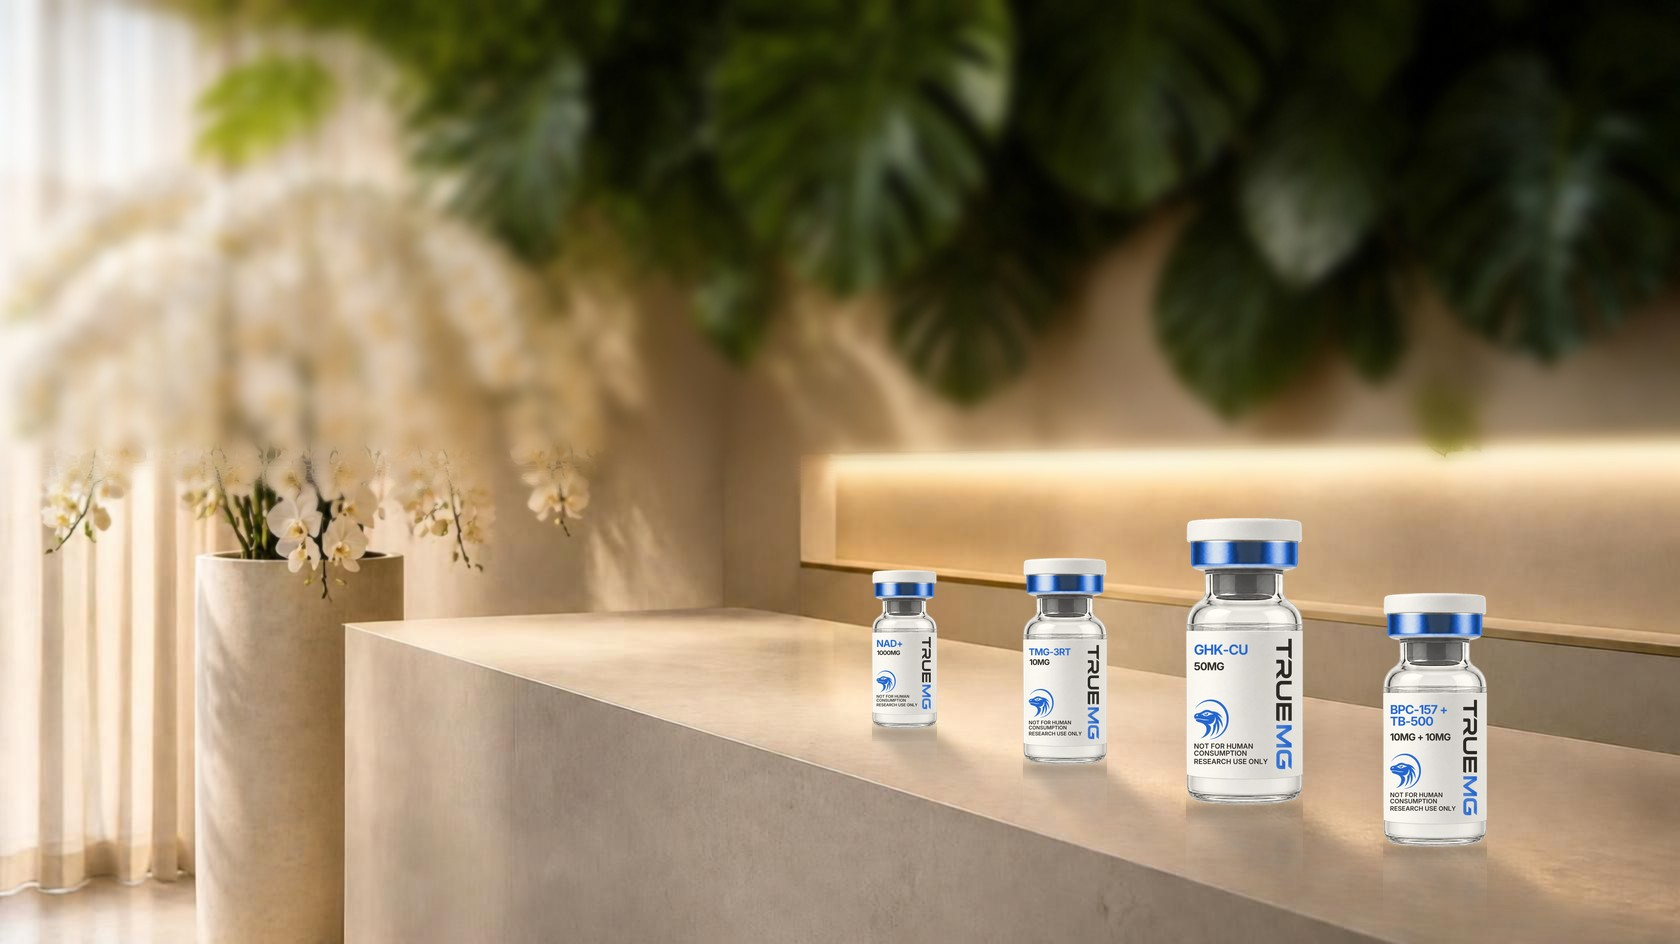
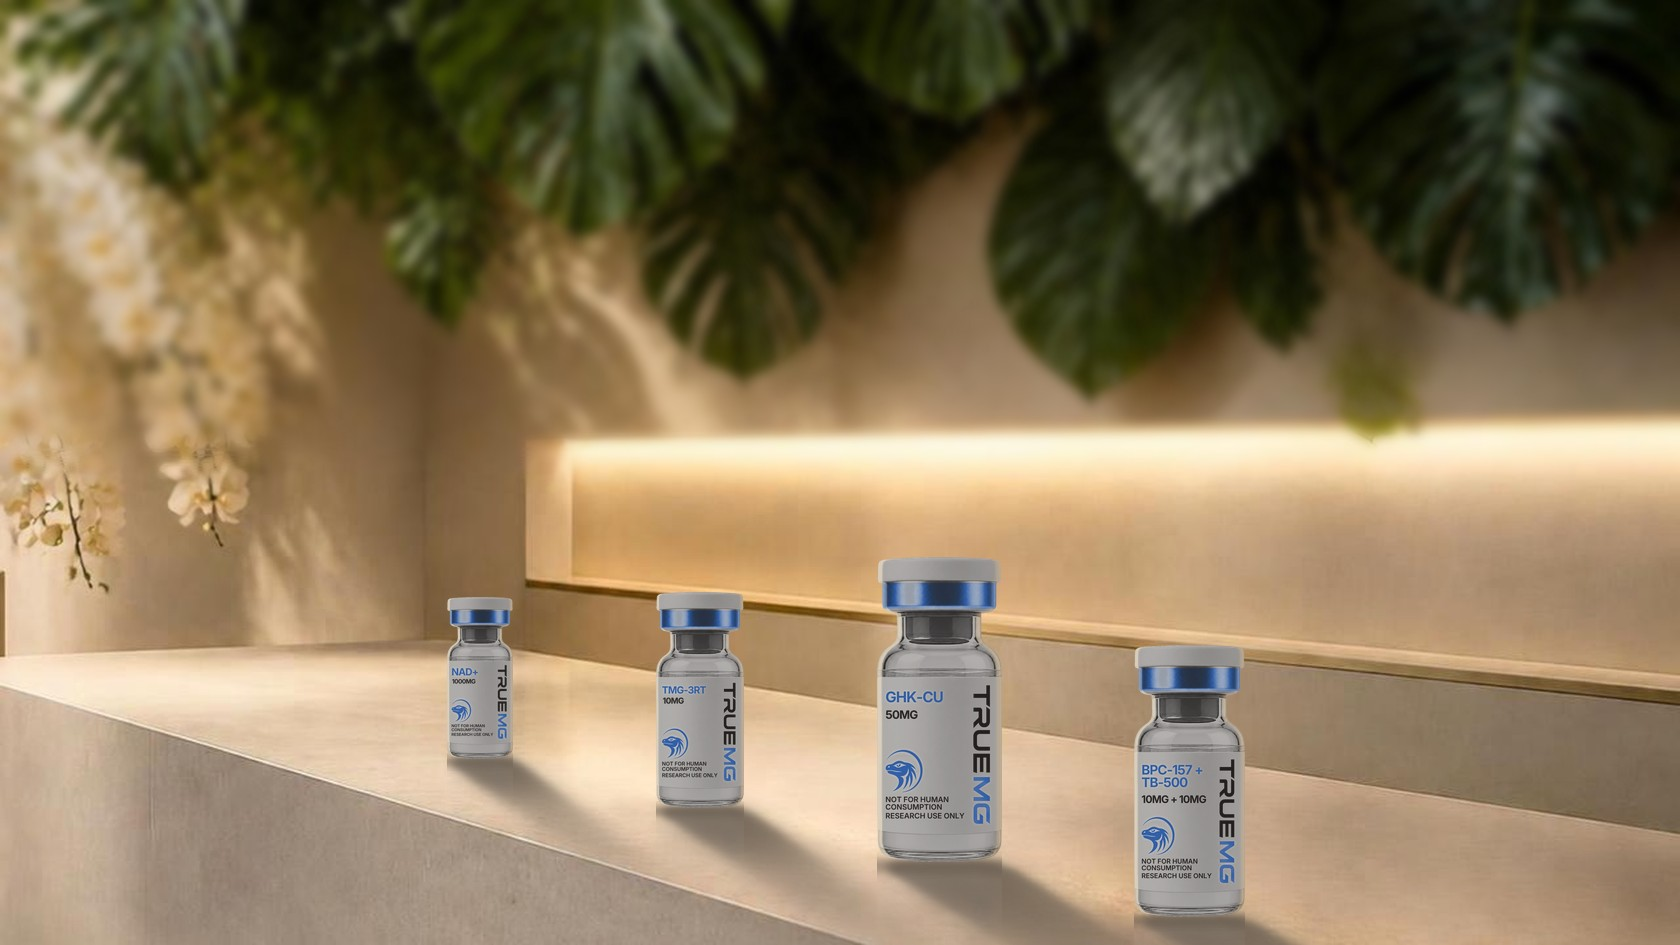
Relight the vials instead of tinting them, and crop in
Mila's verdict on the first composite was that the bottles did not belong
there, and she was right. Three causes, all structural rather than cosmetic:

  * THE ROOM IS BACKLIT AND THE BOTTLES WERE FRONTLIT. The plate's key is a
    sheer curtain behind and to the left, throwing warm light toward camera.
    The vial PNGs are studio packshots on white seamless: even frontal light,
    bright faces, hard edges. The first pass put a warm tint over them, which
    does not help, because a frontlit object with a warm filter is still a
    frontlit object. relight() now knocks the studio key down 22%, wraps a rim
    off the alpha channel on the side facing the curtain, fills the other side
    bronze from the lit niche, and drops the contrast to the plate's curve.
  * THE SHADOWS WERE STUDIO-SOFT in a room that throws long hard ones — look
    at what the orchid puts on the wall. Now two passes, long and short, each
    built up rather than laid down once.
  * THE FRAME SAID THE CAMERA WAS ACROSS THE ROOM, which makes a hero-sized
    45mm vial impossible. Cropping in says the camera is close, which makes
    the same bottles reasonable. The measured plane stays in original plate
    coordinates and is transformed through the crop in code, so framing and
    geometry cannot drift apart.

Better, not yet right, and the remaining gap is documented rather than papered
over: these are flat high-key cutouts and no amount of post recovers the
[…]

diff --git a/truemg/assets/web/spa.py b/truemg/assets/web/spa.py
@@ -23,7 +23,7 @@ Run from this directory.
 import os
 
 import numpy as np
-from PIL import Image, ImageFilter
+from PIL import Image, ImageEnhance, ImageFilter
 from scipy import ndimage
 
 import scene as S
@@ -31,6 +31,18 @@ import scene as S
 D = os.path.dirname(os.path.abspath(__file__)); os.chdir(D)
 
 PLATE = "plate-spa.jpg"
+
+# --- framing ----------------------------------------------------------------
+# A crop is not a cosmetic choice here, it is the fix for the scale problem.
+# The plate is an architectural wide shot, and a wide shot says the camera is
+# across the room — which makes a hero-sized vial physically impossible and is
+# most of why the first composite read as a collage. Cropping in says the
+# camera is close, and a close camera makes the same bottles reasonable. The
+# measured plane below stays in ORIGINAL plate coordinates and is transformed
+# through this crop in code, so the geometry cannot drift out of step with the
+# framing the way hand-copied numbers would.
+CROP = (400, 120, 1680, 840)               # left, top, right, bottom
+OUT_W = 1680
 
 # --- the counter plane, measured off the plate ------------------------------
 # The front-top edge of the counter, found by gradient search along each column
@@ -59,26 +71,26 @@ BASE_M, BASE_C = 0.222, 529.0              # the line their bases sit on
 # ordinary product-photography cheat and it survives because the background is
 # defocused: a soft background reads as distant, and a distant background
 # stops the eye auditing absolute scale.
-SCALE = 0.86
+SCALE = 0.76
 
 # --- defocus ----------------------------------------------------------------
 # Peak blur radius, at the far wall. The near edge of the counter stays sharp.
 # Swept at 6 / 10 / 16: 16 destroys the orchids, 10 softens the canopy more
 # than asked, 6 leaves the top leaves sharp enough to compete with the product.
 # 8 is the dial — turn it, nothing else in the frame moves.
-BLUR_MAX = 8.0
+BLUR_MAX = 6.0
 BLUR_LEVELS = 12
 
 # name, x centre, height relative to the tallest vial
 CAST = [
-    ("nad",             905, 0.715),
-    ("tmg-3rt",        1065, 0.820),
-    ("ghk-cu",         1245, 1.000),
-    ("bpc-157-tb-500", 1435, 0.785),
+    ("nad",             480, 0.715),
+    ("tmg-3rt",         700, 0.820),
+    ("ghk-cu",          940, 1.000),
+    ("bpc-157-tb-500", 1190, 0.785),
 ]
 
 
-def depth_blur(im):
+def depth_blur(im, horizon):
     """Defocus by distance, not by height in the frame.
 
     On a ground plane receding from the camera, distance goes as
@@ -94,10 +106,10 @@ def depth_blur(im):
     W, H = im.size
     yy = np.mgrid[0:H, 0:W][0].astype(float)
 
-    far = 1.0 / np.maximum(yy - HORIZON_Y, 1.0)            # small = near
-    near = 1.0 / max(H - HORIZON_Y, 1.0)                   # the bottom of frame
+    far = 1.0 / np.maximum(yy - horizon, 1.0)            # small = near
+    near = 1.0 / max(H - horizon, 1.0)                   # the bottom of frame
     d = np.clip((far - near) / (far.max() - near), 0, 1) ** 0.55
-    d[yy <= HORIZON_Y] = 1.0                               # the wall and the canopy
+    d[yy <= horizon] = 1.0                               # the wall and the canopy
     d = ndimage.gaussian_filter(d, 12)                     # no hard edge at the horizon
 
     out = np.asarray(im).astype(float)
@@ -109,35 +121,106 @@ def depth_blur(im):
     return Image.fromarray(out.clip(0, 255).astype(np.uint8))
 
 
-def place(scene, name, cx, rel):
+def relight(v, rim=1.0, blur=0.0):
+    """Light the bottle with the room's light instead of the studio's.
+
+    This is the difference between a composite and a collage. The vial PNGs
+    were shot flat on white seamless: even frontal light, bright white faces,
+    hard edges. The plate is lit the opposite way — a sheer curtain behind and
+    to the left, throwing warm light toward the camera. Dropping one into the
+    other and tinting it warm does not work, and should not: a frontlit object
+    with a warm filter on it is still a frontlit object, and the eye reads the
+    mismatch instantly even when it cannot name it.
+
+    Four moves, in the order light actually does them:
+
+      1. KNOCK THE KEY DOWN. Nothing in this room is lit from the camera, so
+         the bright frontal faces lose most of their brightness. This alone
+         does more than everything else combined.
+      2. RIM THE LEFT EDGE. A backlight wraps the silhouette facing it. Taken
+         from the alpha channel shifted right and subtracted, so the band
+         follows the real outline including the cap and the crimp.
+      3. FILL FROM THE RIGHT. The lit niche is a long warm source on that
+         side, so the shadow side is not black, it is bronze.
+      4. SIT IT IN THE AIR. Match the local defocus and drop the contrast to
+         the plate's, because a studio curve against a hazy room is its own
+         kind of cut-out.
+
+    The brand blue is held through all of it, as everywhere else.
+    """
+    a = np.asarray(v.getchannel("A")).astype(float) / 255.0
+    px = np.asarray(v.convert("RGB")).astype(float)
+    r_, g_, b_ = px[:, :, 0], px[:, :, 1], px[:, :, 2]
+    brand = (b_ - r_ > 45) & (b_ - g_ > 25) & (b_ > 90)
+    hold = ndimage.gaussian_filter(brand.astype(float), 1.2)[..., None]
+
+    lit = px * 0.78                                        # 1. kill the studio key
+    lit += (np.array((120, 104, 86), float) - lit) * 0.16  # ambient, warm not grey
+
+    H_, W_ = a.shape
+    sh = max(2, int(W_ * 0.034))
+    left = np.clip(a - np.pad(a, ((0, 0), (sh, 0)))[:, :W_], 0, 1)      # 2. the wrap
+    left = ndimage.gaussian_filter(left, W_ * 0.0055) * rim
+    lit += (np.array((255, 238, 208), float) - lit) * np.clip(left * 1.25, 0, 0.66)[..., None]
+
+    right = np.clip(a - np.pad(a, ((0, 0), (0, sh)))[:, sh:], 0, 1)     # 3. the niche
+    right = ndimage.gaussian_filter(right, W_ * 0.014)
+    lit += (np.array((236, 196, 142), float) - lit) * np.clip(right * 0.80, 0, 0.38)[..., None]
+
+    px = px * hold * 0.45 + lit * (1 - hold * 0.45)
+    rgb = Image.fromarray(px.clip(0, 255).astype(np.uint8))
+    rgb = ImageEnhance.Contrast(rgb).enhance(0.88)         # 4. the plate's curve
+    out = Image.merge("RGBA", (*rgb.split(), v.getchannel("A")))
+    return out.filter(ImageFilter.GaussianBlur(blur)) if blur else out
+
+
+def view():
+    """The crop, and the transform that carries the measured plane through it."""
+    k = OUT_W / (CROP[2] - CROP[0])
+    front = lambda x: (FRONT_M * (x / k + CROP[0]) + FRONT_C - CROP[1]) * k
+    base = lambda x: (BASE_M * (x / k + CROP[0]) + BASE_C - CROP[1]) * k
+    return k, front, base, (HORIZON_Y - CROP[1]) * k
+
+
+def place(scene, name, cx, rel, k, baseline, horizon):
     """One bottle, with its shadow, standing on the plane at cx."""
-    base = BASE_M * cx + BASE_C
-    h = max(8, int(SCALE * rel * (base - HORIZON_Y)))
+    base = baseline(cx)
+    h = max(8, int(SCALE * rel * (base - horizon)))
 
     v = S.vial(name)
     v = v.resize((max(1, int(v.width * h / v.height)), h), Image.LANCZOS)
-    v = S.warm(v, 0.34)
+    # defocus to match the plane the bottle stands on — nearer than the wall
+    # behind it, so a fraction of the plate's blur at this depth
+    v = relight(v, rim=1.0, blur=max(0.0, BLUR_MAX * k * 0.05 * (1 - (base - horizon) / 620.0)))
 
     x, y = int(cx - v.width / 2), int(base - h)
 
     # The key light is the sheer curtain on the left, so shadows fall right and
     # toward the camera. Length grows with distance from the window, the way
     # they do in the plate's own leaf shadows.
-    lean = 0.95 + (cx - CAST[0][1]) / 2600.0
-    cs, pad = S.cast_shadow(v, 0.46, lean, max(5, int(h * 0.030)))
-    scene.alpha_composite(cs, (x - pad, int(base) - pad))
+    # The curtain is a hard, low source, so the shadows in this room are long
+    # and definite — look at what the orchid throws on the wall. The first pass
+    # used scene.py's soft studio shadow and the bottles floated because of it.
+    lean = 1.35 + (cx - CAST[0][1]) / 2000.0
+    for length, blur, n in ((0.95, 0.055, 2), (0.34, 0.016, 3)):
+        cs, pad = S.cast_shadow(v, length, lean, max(4, int(h * blur)))
+        for _ in range(n):                            # deepen: one pass is too pale
+            scene.alpha_composite(cs, (x - pad, int(base) - pad))
 
-    scene.alpha_composite(S.reflection(v, drop=0.34, strength=0.20), (x, int(base)))
-    cp, band = S.contact(v, max(5, int(h * 0.022)))
-    scene.alpha_composite(cp, (x, int(base) - band))
+    scene.alpha_composite(S.reflection(v, drop=0.34, strength=0.22), (x, int(base)))
+    cp, band = S.contact(v, max(4, int(h * 0.018)))
+    for _ in range(2):
+        scene.alpha_composite(cp, (x, int(base) - band))
     scene.alpha_composite(v, (x, y))
 
 
 def compose(out="spa-hero.jpg"):
-    plate = Image.open(PLATE).convert("RGB")
-    scene = depth_blur(plate).convert("RGBA")
+    plate = Image.open(PLATE).convert("RGB").crop(CROP)
+    k, _, baseline, horizon = view()
+    plate = plate.resize((OUT_W, int(plate.height * k)), Image.LANCZOS)
+    scene = depth_blur(plate, horizon).convert("RGBA")
     for name, cx, rel in CAST:
-        place(scene, name, cx, rel)
+        place(scene, name, cx, rel, k, baseline, horizon)
     scene.convert("RGB").save(out, quality=90, optimize=True)
     print(f"  {out:24s} {scene.width}x{scene.height}  {os.path.getsize(out) // 1024} KB")
 
